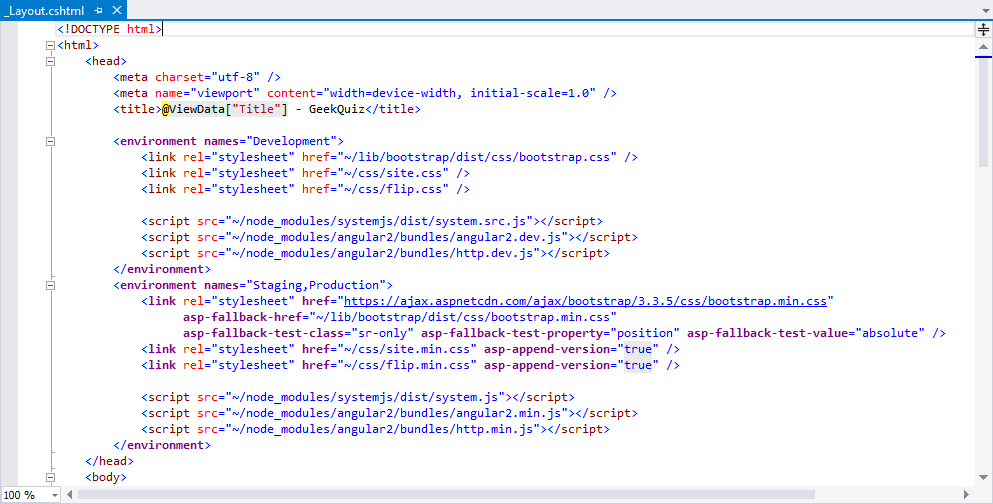
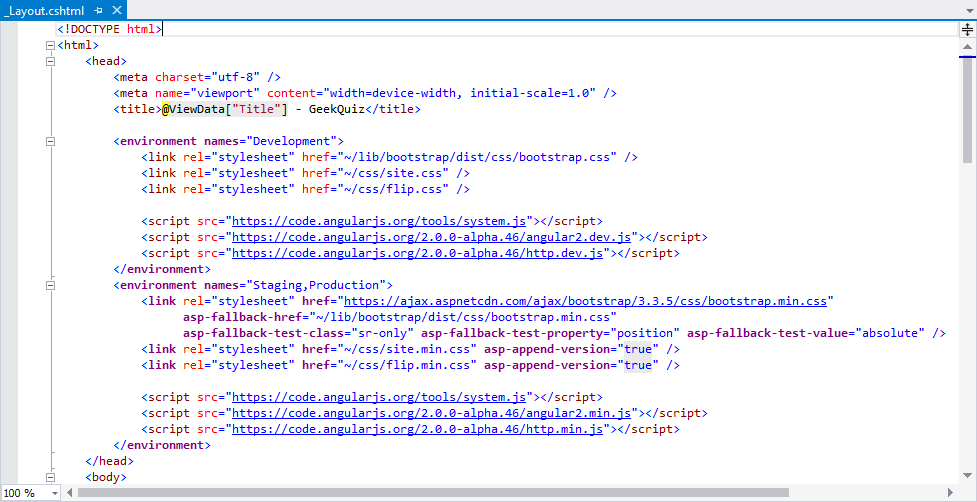
Fixed issue with Angular 2 dependencies

diff --git a/Presentation/ASPNET-in-Production/Scaling-a-production-website/source/end/GeekQuiz/Startup.cs b/Presentation/ASPNET-in-Production/Scaling-a-production-website/source/end/GeekQuiz/Startup.cs
@@ -108,12 +108,6 @@ namespace GeekQuiz
             app.UseIISPlatformHandler(options => options.AuthenticationDescriptions.Clear());
 
             app.UseStaticFiles();
-            
-            app.UseStaticFiles(new StaticFileOptions()
-            { 
-                FileProvider = new PhysicalFileProvider(Path.Combine(env.WebRootPath, @"..", @"node_modules")),
-                RequestPath = new PathString("/node_modules")
-            });
 
             app.UseIdentity();
 

diff --git a/Presentation/HTTP-Services/GeekQuiz-Web-API-Universal-Windows/source/end/GeekQuiz.Web/Startup.cs b/Presentation/HTTP-Services/GeekQuiz-Web-API-Universal-Windows/source/end/GeekQuiz.Web/Startup.cs
@@ -108,12 +108,6 @@ namespace GeekQuiz
             app.UseIISPlatformHandler(options => options.AuthenticationDescriptions.Clear());
 
             app.UseStaticFiles();
-            
-            app.UseStaticFiles(new StaticFileOptions()
-            { 
-                FileProvider = new PhysicalFileProvider(Path.Combine(env.WebRootPath, @"..", @"node_modules")),
-                RequestPath = new PathString("/node_modules")
-            });
 
             app.UseIdentity();
 

diff --git a/Presentation/HTTP-Services/GeekQuiz-Web-API-backend/source/begin/GeekQuiz/Startup.cs b/Presentation/HTTP-Services/GeekQuiz-Web-API-backend/source/begin/GeekQuiz/Startup.cs
@@ -108,12 +108,6 @@ namespace GeekQuiz
             app.UseIISPlatformHandler(options => options.AuthenticationDescriptions.Clear());
 
             app.UseStaticFiles();
-            
-            app.UseStaticFiles(new StaticFileOptions()
-            { 
-                FileProvider = new PhysicalFileProvider(Path.Combine(env.WebRootPath, @"..", @"node_modules")),
-                RequestPath = new PathString("/node_modules")
-            });
 
             app.UseIdentity();
 

diff --git a/Presentation/HTTP-Services/GeekQuiz-Web-API-backend/source/end/GeekQuiz/Startup.cs b/Presentation/HTTP-Services/GeekQuiz-Web-API-backend/source/end/GeekQuiz/Startup.cs
@@ -108,12 +108,6 @@ namespace GeekQuiz
             app.UseIISPlatformHandler(options => options.AuthenticationDescriptions.Clear());
 
             app.UseStaticFiles();
-            
-            app.UseStaticFiles(new StaticFileOptions()
-            { 
-                FileProvider = new PhysicalFileProvider(Path.Combine(env.WebRootPath, @"..", @"node_modules")),
-                RequestPath = new PathString("/node_modules")
-            });
 
             app.UseIdentity();
 

diff --git a/Presentation/Modern-Web-Front-Ends/GeekQuiz-SPA-Interface/source/begin/GeekQuiz/Startup.cs b/Presentation/Modern-Web-Front-Ends/GeekQuiz-SPA-Interface/source/begin/GeekQuiz/Startup.cs
@@ -108,12 +108,6 @@ namespace GeekQuiz
             app.UseIISPlatformHandler(options => options.AuthenticationDescriptions.Clear());
 
             app.UseStaticFiles();
-            
-            app.UseStaticFiles(new StaticFileOptions()
-            { 
-                FileProvider = new PhysicalFileProvider(Path.Combine(env.WebRootPath, @"..", @"node_modules")),
-                RequestPath = new PathString("/node_modules")
-            });
 
             app.UseIdentity();
 

diff --git a/Presentation/Modern-Web-Front-Ends/GeekQuiz-SPA-Interface/source/end/GeekQuiz/Startup.cs b/Presentation/Modern-Web-Front-Ends/GeekQuiz-SPA-Interface/source/end/GeekQuiz/Startup.cs
@@ -108,12 +108,6 @@ namespace GeekQuiz
             app.UseIISPlatformHandler(options => options.AuthenticationDescriptions.Clear());
 
             app.UseStaticFiles();
-            
-            app.UseStaticFiles(new StaticFileOptions()
-            { 
-                FileProvider = new PhysicalFileProvider(Path.Combine(env.WebRootPath, @"..", @"node_modules")),
-                RequestPath = new PathString("/node_modules")
-            });
 
             app.UseIdentity();
 

diff --git a/Presentation/ASPNET-in-Production/Azure-Active-Directory/source/end-segment2/GeekQuiz/Startup.cs b/Presentation/ASPNET-in-Production/Azure-Active-Directory/source/end-segment2/GeekQuiz/Startup.cs
@@ -92,12 +92,6 @@ namespace GeekQuiz
 			app.UseIISPlatformHandler();
 			
             app.UseStaticFiles();
-            
-            app.UseStaticFiles(new StaticFileOptions()
-            { 
-                FileProvider = new PhysicalFileProvider(Path.Combine(env.WebRootPath, @"..", @"node_modules")),
-                RequestPath = new PathString("/node_modules")
-            });
 
             app.UseCookieAuthentication(options =>
             {

diff --git a/Presentation/Modern-Web-Front-Ends/GeekQuiz-SPA-Interface/README.md b/Presentation/Modern-Web-Front-Ends/GeekQuiz-SPA-Interface/README.md
@@ -45,24 +45,6 @@ This demo is composed of the following segments:
 <a name="segment1" />
 ### Consuming data from a Web API in an Angular 2 app ###
 
-1. Right-click the **npm** folder located under **Dependencies** and select **Developer Command Prompt** under **Open Command Line**.
-
-	![Opening a Developer Command Prompt](images/opening-a-dev-command-prompt.png?raw=true "Opening a Developer Command Prompt")
-
-	_Opening a Developer Command Prompt_
-
-1. Install **Angular 2** and **SystemJS** npm packages using the following command in the Developer Command Prompt you just opened.
-
-	```
-	npm i angular2@2.0.0-alpha.46 systemjs@0.19.6 --save --save-exact
-	```
-
-	![Installing Angular and SystemJS npm packages](images/installing-npm-packages.png?raw=true "Installing Angular and SystemJS npm packages")
-
-	_Installing Angular and SystemJS npm packages_
-
-1. Close the Developer Command Prompt.
-
 1. Press **CTRL + ,** and search for "_Layout.cshtml" (without the quotes).
 
 	![Opening the layout file](images/opening-the-layout.png?raw=true "Opening the layout file")
@@ -75,18 +57,18 @@ This demo is composed of the following segments:
 
 	<!-- mark:1-3 -->
 	````HTML
-	<script src="~/node_modules/systemjs/dist/system.js"></script>
-	<script src="~/node_modules/angular2/bundles/angular2.min.js"></script>
-	<script src="~/node_modules/angular2/bundles/http.js"></script>
+	<script src="https://code.angularjs.org/tools/system.js"></script>
+	<script src="https://code.angularjs.org/2.0.0-alpha.46/angular2.dev.js"></script>
+	<script src="https://code.angularjs.org/2.0.0-alpha.46/http.dev.js"></script>
 	````
 
 1. Add the following code inside the `<environment names="Staging,Production">` tag located inside the `head` tag.
 
 	<!-- mark:1-3 -->
 	````HTML
-	<script src="~/node_modules/systemjs/dist/system.js"></script>
-	<script src="~/node_modules/angular2/bundles/angular2.min.js"></script>
-	<script src="~/node_modules/angular2/bundles/http.min.js"></script>
+	<script src="https://code.angularjs.org/tools/system.js"></script>
+	<script src="https://code.angularjs.org/2.0.0-alpha.46/angular2.min.js"></script>
+	<script src="https://code.angularjs.org/2.0.0-alpha.46/http.min.js"></script>
 	````
 
 	![Updating the layout file to include the new dependencies](images/updating-the-layout.png?raw=true "Updating the layout file to include the new dependencies")
@@ -316,9 +298,7 @@ This demo is composed of the following segments:
 
 By completing this demo you should have:
 
-1. Included Ember.js and Handlebars.js via NuGet
-1. Added handlebars bindings to show question and run the application
-1. Added Ember code to call sendAnswer
+1. Create a single page application using Angular 2 and ASP.NET Web API
 1. Set up the CSS3 flip animation
 
 ---
